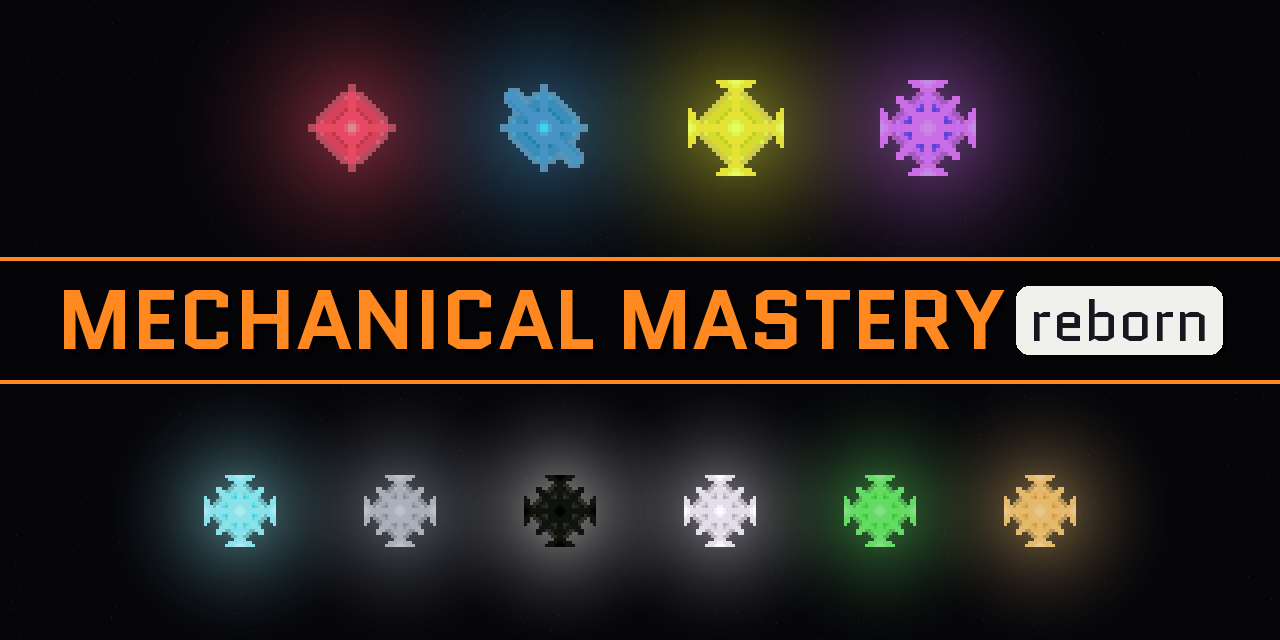
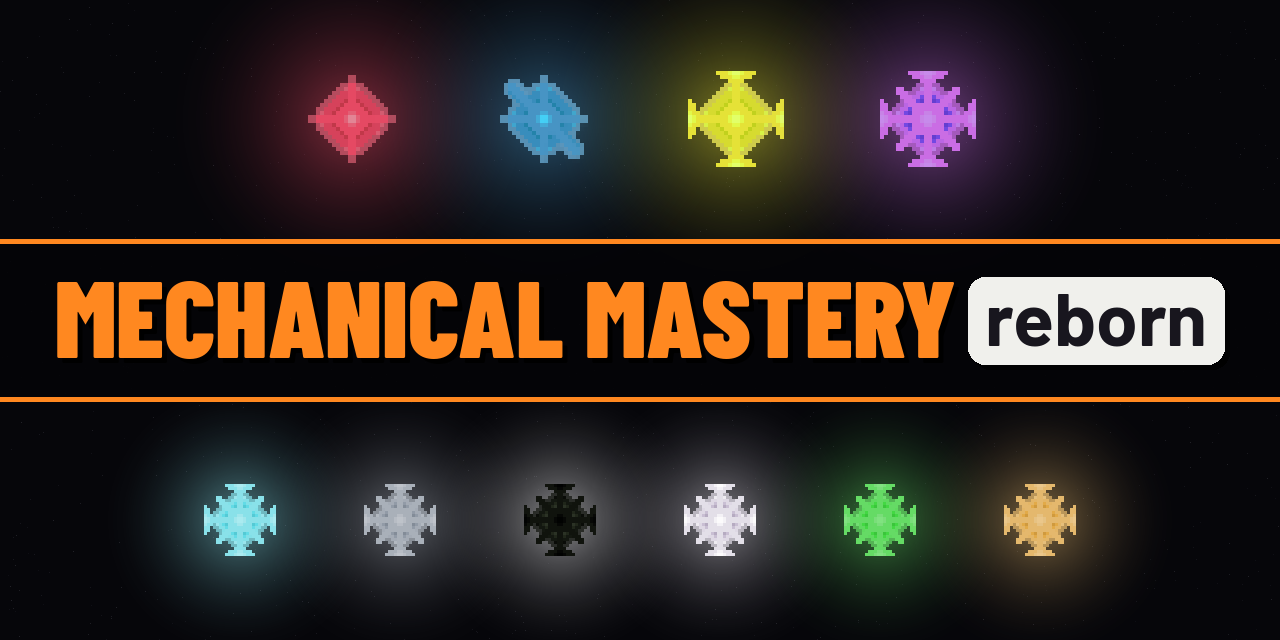
Reborn's covers set their title in Barlow Condensed Black and their pill in Barlow Bold (#274)
The heaviest condensed face is the one that stands out; the comments wrap again.

diff --git a/MMR26.1.2/publish/make-cover.py b/MMR26.1.2/publish/make-cover.py
@@ -16,16 +16,16 @@
 #   - above the title band, the four tier essences in a row, lowest first, scaled up nearest-neighbour,
 #     each glowing in its own colour;
 #   - the band, dark, ruled top and bottom in the accent, holding the suite's title turned around, as
-#     A Touch of Darkness's is: "MECHANICAL MASTERY" in Quantico caps, in the accent's
+#     A Touch of Darkness's is: "MECHANICAL MASTERY" in Barlow Condensed caps, in the accent's
 #     orange, then the suite's white pill holding "reborn". The icon stacks them;
 #   - beneath the band, the four Transmuted Essences with Nullessence and Quintessence, the last
 #     stand's two sides, paired in their middle.
 #
 # Its art is the companion mod's own textures only (mod/NOTICE), nothing of Mojang's. Its fonts are
-# found on the system, with fallbacks; none is committed. Quantico is a Google Font
-# (SIL OFL), installed by hand, its Bold for the title and its Regular for the pill; without it the
-# title falls back to Impact and the pill to Arial Black, which every run there draws the same, if
-# not as designed.
+# found on the system, with fallbacks; none is committed. Barlow Condensed and Barlow are Google Fonts
+# (SIL OFL), installed by hand, the first's Black for the title, as heavy as it comes so it stands
+# out, and the second's Bold for the pill; without them the title falls back to Impact and the pill to
+# Arial Black, which every run there draws the same, if not as designed.
 import math
 import os
 import random
@@ -50,12 +50,12 @@ TIERS = ['basic_mechanical_essence', 'regular_mechanical_essence', 'improved_mec
 TRANSMUTED = ['galvanic_essence', 'warding_essence', 'vital_essence', 'aureate_essence']
 LAST_STAND = ['nullessence', 'quintessence']
 TITLE, WORD = 'MECHANICAL MASTERY', 'reborn'
-FONTS = ['~/Library/Fonts/', '/Library/Fonts/', '~/.local/share/fonts/quantico/', '~/.local/share/fonts/',
-         '/usr/share/fonts/TTF/', '/usr/share/fonts/truetype/quantico/']
-TITLE_FONT = [d + 'Quantico-Bold.ttf' for d in FONTS] + [
+FONTS = ['~/Library/Fonts/', '/Library/Fonts/', '~/.local/share/fonts/barlow/', '~/.local/share/fonts/',
+         '/usr/share/fonts/TTF/', '/usr/share/fonts/truetype/barlow/']
+TITLE_FONT = [d + 'BarlowCondensed-Black.ttf' for d in FONTS] + [
     '/System/Library/Fonts/Supplemental/Impact.ttf', '/usr/share/fonts/TTF/impact.ttf',
     '~/.local/share/fonts/msfonts/impact.ttf', '/usr/share/fonts/noto/NotoSans-Black.ttf']
-WORD_FONT = [d + 'Quantico-Regular.ttf' for d in FONTS] + [
+WORD_FONT = [d + 'Barlow-Bold.ttf' for d in FONTS] + [
     '/System/Library/Fonts/Supplemental/Arial Black.ttf', '/usr/share/fonts/TTF/ariblk.ttf',
     '~/.local/share/fonts/msfonts/ariblk.ttf', '/usr/share/fonts/noto/NotoSans-Black.ttf']
 WORD_SCALE = 0.7  # the pill's word against the title

diff --git a/MMR26.1.2/mod/publish/make-cover.py b/MMR26.1.2/mod/publish/make-cover.py
@@ -14,14 +14,14 @@
 #   - a wall of the Recycler's casing, drive and vent textures, tiled nearest-neighbour as Beltworks'
 #     tiles its belts, in a fixed pattern so every run draws the same image, dimmed so the title reads;
 #   - the title band, dark, ruled top and bottom in the accent, holding the suite's title turned
-#     around, as A Touch of Darkness's is: "MECHANICAL MASTERY" in Quantico caps, in the accent's
+#     around, as A Touch of Darkness's is: "MECHANICAL MASTERY" in Barlow Condensed caps, in the accent's
 #     orange, then the suite's white pill holding "core". The icon stacks them.
 #
 # Its art is the mod's own textures only, Malcolm Riley's Recycler textures (NOTICE), nothing of
-# Mojang's. Its fonts are found on the system, with fallbacks; none is committed. Quantico is a Google
-# Font (SIL OFL), installed by hand, its Bold for the title and its Regular for the pill; without it
-# the title falls back to Impact and the pill to Arial Black, which every run there draws the same,
-# if not as designed.
+# Mojang's. Its fonts are found on the system, with fallbacks; none is committed. Barlow Condensed and
+# Barlow are Google Fonts (SIL OFL), installed by hand, the first's Black for the title, as heavy as
+# it comes so it stands out, and the second's Bold for the pill; without them the title falls back to
+# Impact and the pill to Arial Black, which every run there draws the same, if not as designed.
 import os
 
 from PIL import Image, ImageDraw, ImageFont
@@ -35,12 +35,12 @@ ACCENT = (255, 136, 32)  # orange, a machine's warning paint, apart from every e
 PILL = (240, 240, 236)
 PILL_TEXT = (24, 22, 30)
 TITLE, WORD = 'MECHANICAL MASTERY', 'core'
-FONTS = ['~/Library/Fonts/', '/Library/Fonts/', '~/.local/share/fonts/quantico/', '~/.local/share/fonts/',
-         '/usr/share/fonts/TTF/', '/usr/share/fonts/truetype/quantico/']
-TITLE_FONT = [d + 'Quantico-Bold.ttf' for d in FONTS] + [
+FONTS = ['~/Library/Fonts/', '/Library/Fonts/', '~/.local/share/fonts/barlow/', '~/.local/share/fonts/',
+         '/usr/share/fonts/TTF/', '/usr/share/fonts/truetype/barlow/']
+TITLE_FONT = [d + 'BarlowCondensed-Black.ttf' for d in FONTS] + [
     '/System/Library/Fonts/Supplemental/Impact.ttf', '/usr/share/fonts/TTF/impact.ttf',
     '~/.local/share/fonts/msfonts/impact.ttf', '/usr/share/fonts/noto/NotoSans-Black.ttf']
-WORD_FONT = [d + 'Quantico-Regular.ttf' for d in FONTS] + [
+WORD_FONT = [d + 'Barlow-Bold.ttf' for d in FONTS] + [
     '/System/Library/Fonts/Supplemental/Arial Black.ttf', '/usr/share/fonts/TTF/ariblk.ttf',
     '~/.local/share/fonts/msfonts/ariblk.ttf', '/usr/share/fonts/noto/NotoSans-Black.ttf']
 WORD_SCALE = 0.7  # the pill's word against the title
